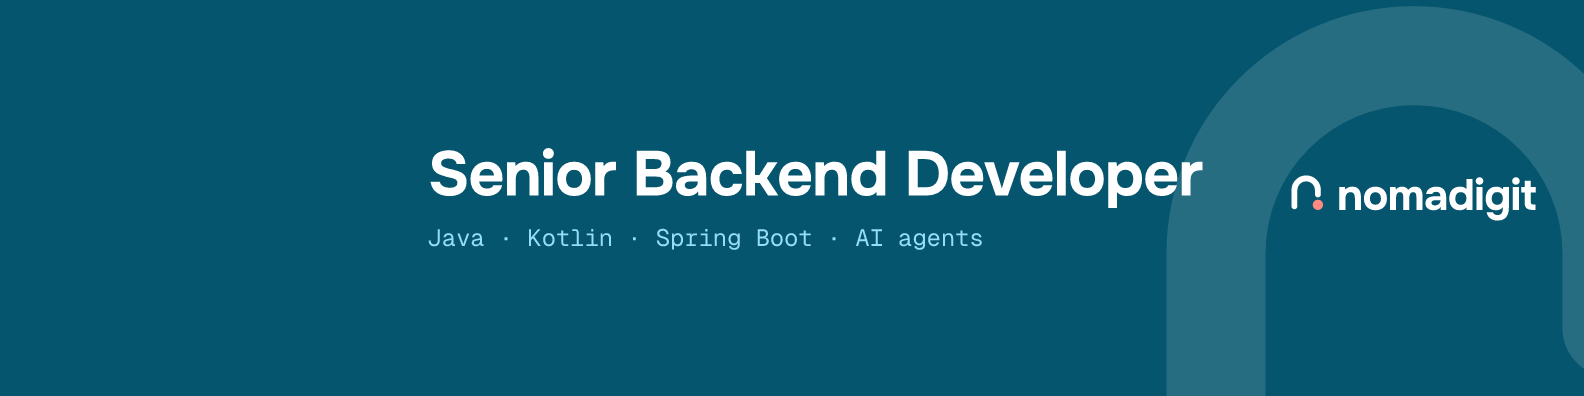
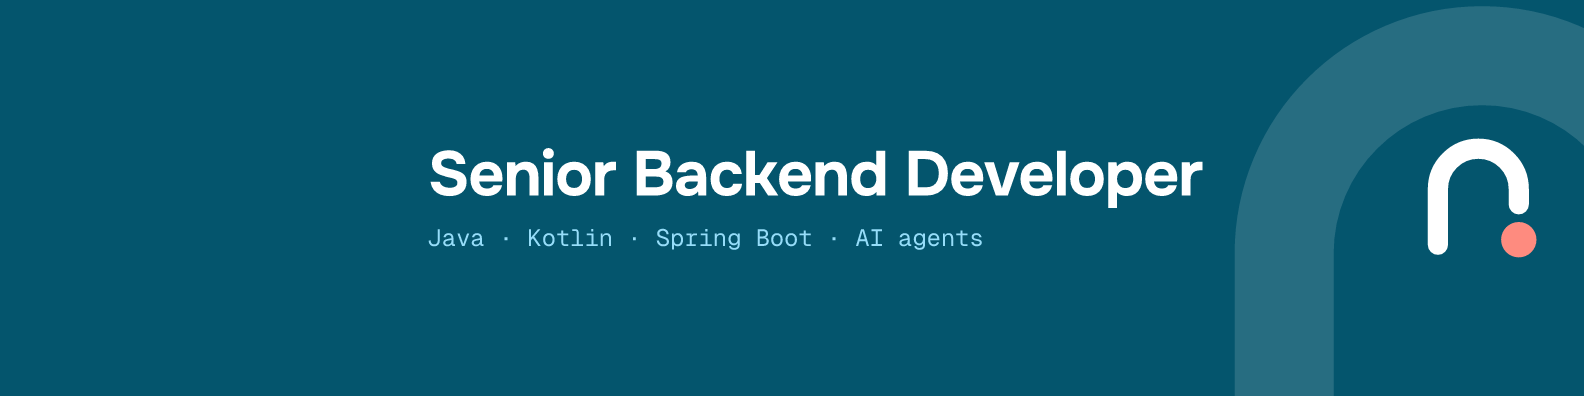
LinkedIn cover: mark alone instead of the lockup
Claude-Session: https://claude.ai/code/session_01D9mEr112VqpuS9prfckgom

Changed region(s): [[0.7115, 0.0, 1.0, 1.0]]

diff --git a/README.md b/README.md
@@ -32,7 +32,7 @@ packages/
 output/           generated artifacts (gitignored except for a .gitkeep)
 assets/
   linkedin-banner.png  LinkedIn profile cover (1584×396), rendered in the brand repo with
-                       `npm run og -- "Senior Backend Developer" --kicker "Java · Kotlin · Spring Boot · AI agents" --size linkedin`
+                       `npm run og -- "Senior Backend Developer" --kicker "Java · Kotlin · Spring Boot · AI agents" --size linkedin --mark`
 ```
 
 ## Updating your resume
